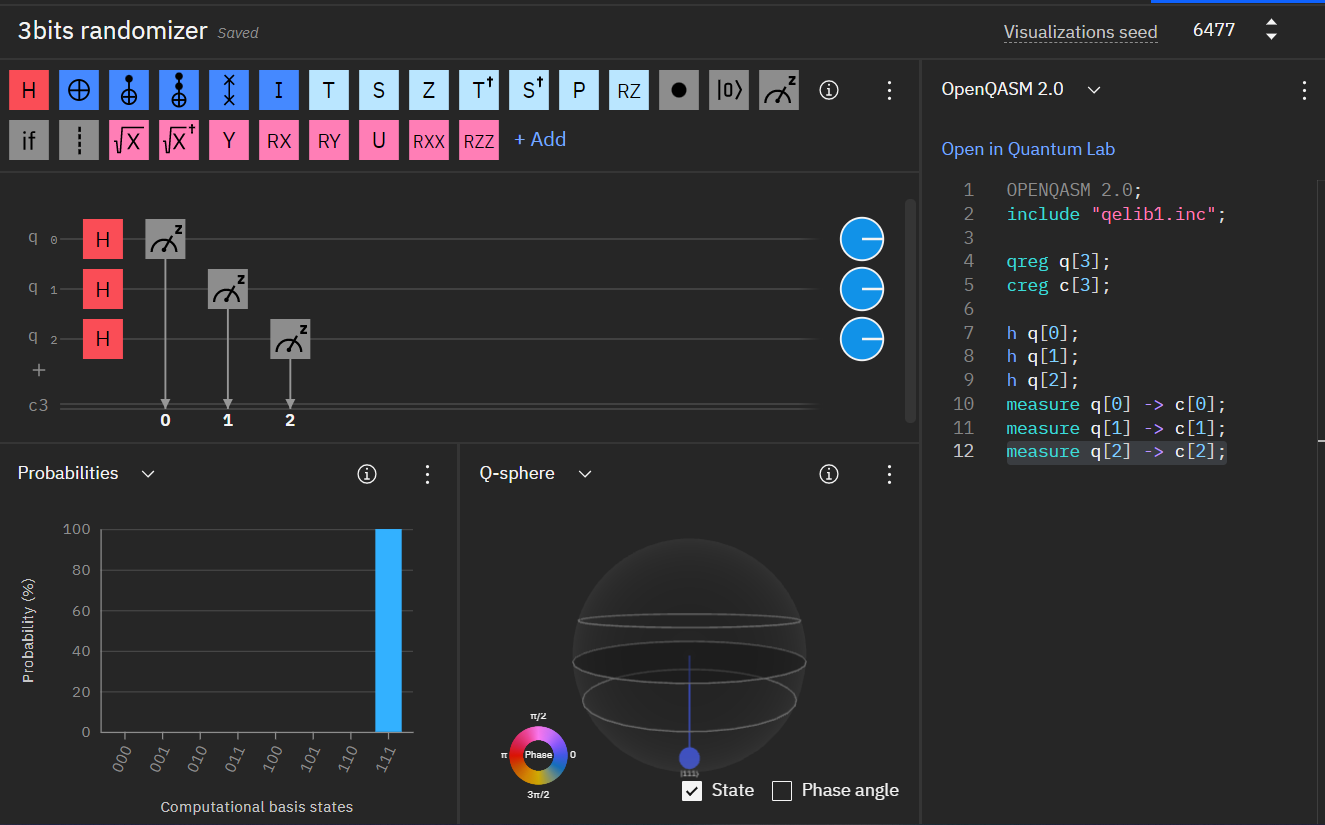
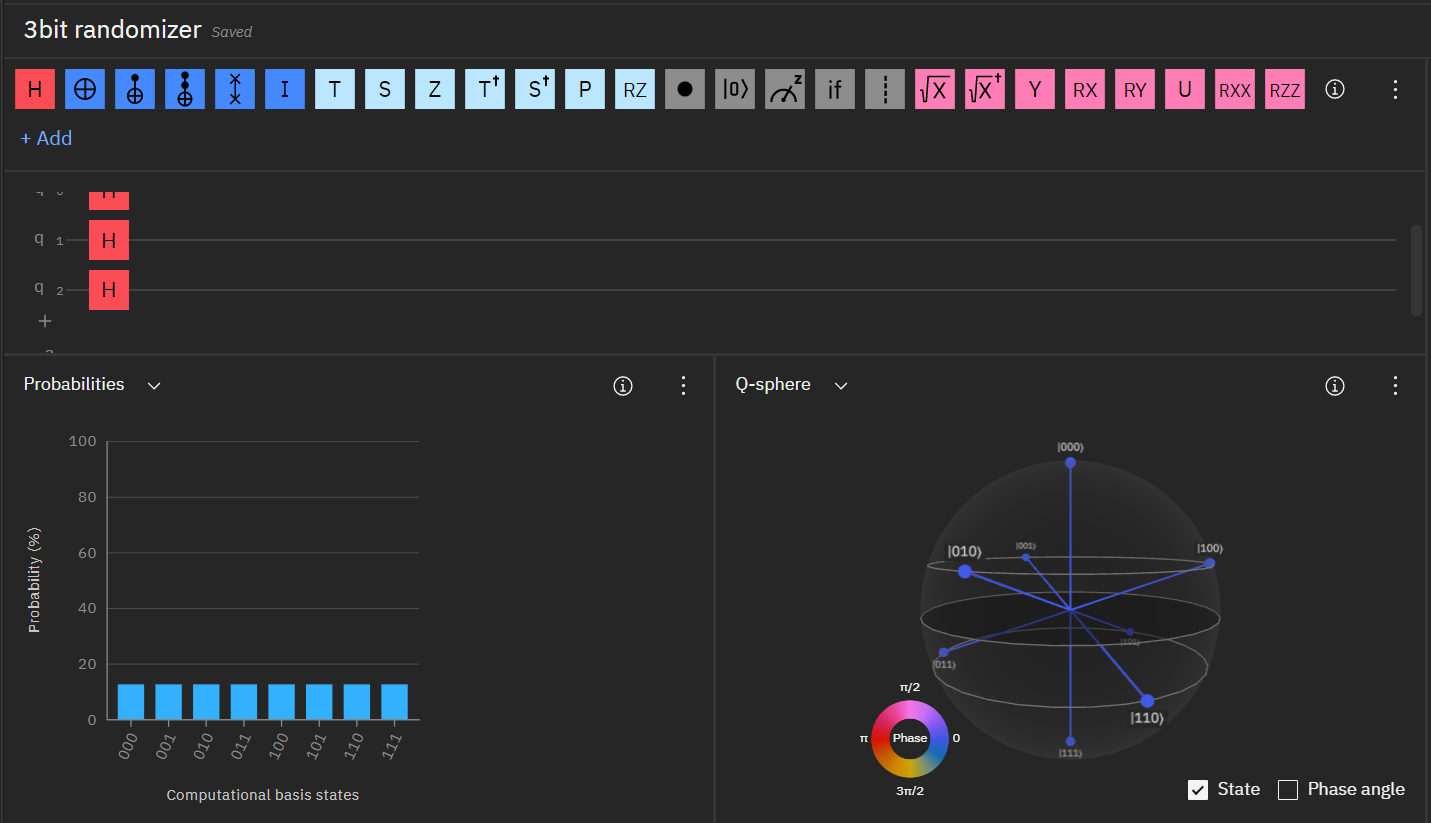
Adding first two execirse of the quantum part

diff --git a/CUDA-Cuantica/P2.tex b/CUDA-Cuantica/P2.tex
@@ -50,11 +50,11 @@
 \author{José Antonio Álvarez Ocete\\ Francisco Javier Sáez Maldonado}
 \date{\today}
 \title{Introducción a Hadoop y Spark\\\medskip
-\large Procesamiento de Datos a Gran Escala}
+\rarge Procesamiento de Datos a Gran Escala}
 
 \newcommand{\I}{\mathbb{I}}
 \newcommand{\ra}{\rangle}
-\newcommand{\la}{\langle}
+\newcommand{\ra}{\rangle}
 
 \begin{document}
 
@@ -95,13 +95,13 @@ TODO: Añadir enunciado
 La única operación no trivial aplicable sobre un único bit es la negación: la puerta NOT. De la misma forma, es natural preguntarse cuál es el equivalente a la puerta NOT en el mundo cuántico. Dado que un qubit está descrito por dos amplitudes $\alpha$ y $\beta$:
 
 \[
-	|\varphi\la = \alpha |0\la + \beta |1\la,
+	|\varphi\ra = \alpha |0\ra + \beta |1\ra,
 \]
 
 la puerta NOT será un intercambio entre las posiciones de estas amplitudes, obteniéndose así:
 
 \[
-	|\varphi\la = \beta |0\la + \alpha |1\la.
+	|\varphi\ra = \beta |0\ra + \alpha |1\ra.
 \]
 
 La matriz unitaria que describe esta transformación es sencilla:
@@ -122,11 +122,7 @@ Vemos la implementación de esta puerta en el Quantum Composer de IBM:
 	\caption{Circuito con puerta de Hadamard}
 \end{figure}
 
-Recordemos que en el Quantum Composer de IBM todos los qubits empiezan siempre en el estado $|0\la$. Tras aplicarlo a nuestro qubit una puerta $X$ obtendremos $|1\ra$.
-
-\paragraph*{Puertas de Pauli}
-
-
+Recordemos que en el Quantum Composer de IBM todos los qubits empiezan siempre en el estado $|0\ra$. Tras aplicarlo a nuestro qubit una puerta $X$ obtendremos $|1\ra$.
 
 \paragraph*{Puerta Hadamard}
 
@@ -140,19 +136,19 @@ Finalmente presentamos la puerta de Hadamard para un único bit. Está descrita 
 	\end{pmatrix}
 \]
 
-Uno de sus usos más comunes es la superposición de qubits. Si aplicamos esta puerta al estado $|0\la$ obtenemos el estado de Bell:
+Uno de sus usos más comunes es la superposición de qubits. Si aplicamos esta puerta al estado $|0\ra$ obtenemos el estado de Bell:
 
 \[
-	H|0\la = \frac{1}{\sqrt 2} |0\la + \frac{1}{\sqrt 2} |1\la = |+\la
+	H|0\ra = \frac{1}{\sqrt 2} |0\ra + \frac{1}{\sqrt 2} |1\ra = |+\ra
 \]
 
-Mientras que si se la aplicamos al estado $|1\la$ obtenemos:
+Mientras que si se la aplicamos al estado $|1\ra$ obtenemos:
 
 \[
-	H|1\la = \frac{1}{\sqrt 2} |0\la - \frac{1}{\sqrt 2} |1\la = |-\la
+	H|1\ra = \frac{1}{\sqrt 2} |0\ra - \frac{1}{\sqrt 2} |1\ra = |-\ra
 \]
 
-Que también supone una superposición exacta de $|0\la$ y $|1\la$ puesto que $|1/\sqrt 2|^2 = |-1/\sqrt 2|^2 = 1/2$.
+Que también supone una superposición exacta de $|0\ra$ y $|1\ra$ puesto que $|1/\sqrt 2|^2 = |-1/\sqrt 2|^2 = 1/2$.
 
 Podemos estudiar el comportamiento de esta puerta utilizando el Quantum Composer de IBM:
 
@@ -164,20 +160,69 @@ Podemos estudiar el comportamiento de esta puerta utilizando el Quantum Composer
 
 Mirando tanto la \href{URL}{esfera de Bloch} como las probabilidades vemos que tenemos la misma probabilidad de medir $0$ y $1$.
 
+\paragraph*{Puertas de Pauli}
+
+Un conjunto particularmente relevante de puertas son las descritas por las \text{matrices de Pauli}:
+
+\[
+X =
+	\begin{pmatrix}
+		0 & 1 \\
+		1 & 0 
+	\end{pmatrix}; \quad
+	Y =
+	\begin{pmatrix}
+		0 & -i \\
+		i & 0 
+	\end{pmatrix}; \quad
+	Z =
+	\begin{pmatrix}
+		1 & 0 \\
+		0 & -1 
+	\end{pmatrix}
+\]
+
+Ya conocemos la matriz $X$, descrita también como la puerta NOT quántica.
+
+\paragraph*{Puertas $T$}
+
+La puerta $\pi/8$, normalmente descrita por la letra $T$, es una \emph{puerta de fase}. Las puertas de fase son un tipo especial de puertas cuánticas que llevan $|0\ra \mapsto |0\ra$ y $|1\ra \mapsto e^{i\phi}|1\ra$, donde $\phi$ es un ángulo de giro. El término $e^{i\phi}$ se denomina \emph{fase} y no afecta a los resultados de las mediciones $0$ y $1$. En particular, la puerta $T$ cumple $\phi = \pi/4$, y la puerta $Z$ de Pauli es una puerta fase con $\phi = \pi/2$:
+
+\[
+	T =
+	\begin{pmatrix}
+		1 & 0 \\
+		0 & e^{i\frac{\pi}{4}}
+	\end{pmatrix}; \quad
+	Z =
+	\begin{pmatrix}
+		1 & 0 \\
+		0 & e^{i\frac{\pi}{2}} = -1
+	\end{pmatrix}
+\]
+
+En computación clásica, uno de los resultados básicos más relevante es que cualquier función booleana puede describirse utilizando únicamente las puertas clásicas AND, OR y NOT. De la misma forma, en computación cuántica se obtiene siguiente resultado
+
+\begin{theorem}
+	Toda matriz unitaria puede aproximarse con una combinación de puertas Hadamard, CNOT y $\pi/8$.
+\end{theorem}
+
+Esto es, todo circuito cuántico puede describirse utilizando únicamente dichas puertas.
+
 \subsection{Generación de números aleatorios con un Computador Cuántico}
 
 TODO: añadir enunciado
 
-Sabemos que utilizando la puerta de Hadarmad $H$ explicada en el apartado anterior ponemos un qubit $|0\la$ en superposición:
+Sabemos que utilizando la puerta de Hadarmad $H$ explicada en el apartado anterior ponemos un qubit $|0\ra$ en superposición:
 
 \[
-	H|0\la = \frac{1}{\sqrt 2} |0\la + \frac{1}{\sqrt 2} |1\la
+	H|0\ra = \frac{1}{\sqrt 2} |0\ra + \frac{1}{\sqrt 2} |1\ra
 \]
 
-Si ahora medimos este qubit obtendremos $|0\la$ con probabilidad $|1/\sqrt 2|^2 = 1/2$, y $|1\ra$ con probabilidad $1/2$. Esto es, hemos creado un generador de bits aleatorios utilizando un único qubit. Para crear un generador de 3 bits utilizaremos un sistema de 3 qubits. Inicialmente en el estado $|000\ra$, aplicaremos una puerta Hadamard a cada qubit de forma independiente, poniendo así cada qubit en superposición:
+Si ahora medimos este qubit obtendremos $|0\ra$ con probabilidad $|1/\sqrt 2|^2 = 1/2$, y $|1\ra$ con probabilidad $1/2$. Esto es, hemos creado un generador de bits aleatorios utilizando un único qubit. Para crear un generador de 3 bits utilizaremos un sistema de 3 qubits. Inicialmente en el estado $|000\ra$, aplicaremos una puerta Hadamard a cada qubit de forma independiente, poniendo así cada qubit en superposición:
 
 \[
-	\hat H_3|000\la = \frac{|000\la + |001\la + |010\la + |011\la + |100\la + |101\la + |110\la + |111\la}{\sqrt 8} |0\la
+	\hat H_3|000\ra = \frac{|000\ra + |001\ra + |010\ra + |011\ra + |100\ra + |101\ra + |110\ra + |111\ra}{\sqrt 8} |0\ra
 \]
 
 Donde la puerta $H_3$ tranformación de Hadamard para tres qubits. Se puede definir recursivamente de la siguiente forma:
@@ -208,20 +253,29 @@ H_3 = \frac{1}{2^{3/2}}
 
 Pasamos a realizar un estudio empírico del circuito diseñado. Lo implementamos utilizando el Quantum Composer de IBM:
 
-%\begin{figure}[H]
-%	\centering
-%	\includegraphics[scale=0.8]{figures/barplot.pdf}
-%	\caption{Comparación de número de veces que aparece cada palabra con y sin preprocesamiento.}
-%\end{figure}
+\begin{figure}[H]
+	\centering
+	\includegraphics[scale=0.8]{figures/3bit_rand.png}
+	\caption{Circuito de generación de números aleatorios con 3 bits}
+\end{figure}
 
-Este simple circuito cuántico pone todos los qubits en superposición y después mide el resultado. Comprobamos los resultados ejecutando un trabajo con este circuito en el ordenador cuántico de IBM:
+Este simple circuito cuántico pone todos los qubits en superposición y después mide el resultado. En la parte inferior de la imagen vemos como tenemos la misma probabilidad de obtener cualquiera de los posibles resultados. Esto es, cualquiera de los números del $0$ al $7$, tomando así un número aleatorio de 3 bits. Añadimos tres medidas, una para cada qubit, y ejecutamos el circuito resultante utilizando un simulador de 
 
+\begin{figure}[H]
+	\centering
+	\includegraphics[scale=0.8]{figures/3bit_rand_result.png}
+	\caption{Resultados de la simulación con 1024 ejecuciones}
+\end{figure}
 
-
+Como podemos ver en la gráfica, obtenemos una probabilidad similar de medir cada uno de los posibles resultados.
 
 \subsection{Entrelazamiento}
 
+
+
 \subsection{Sumador de 2 qbits}
+
+
 
 \section{Ejercicios opcionales de la práctica 2}
 
